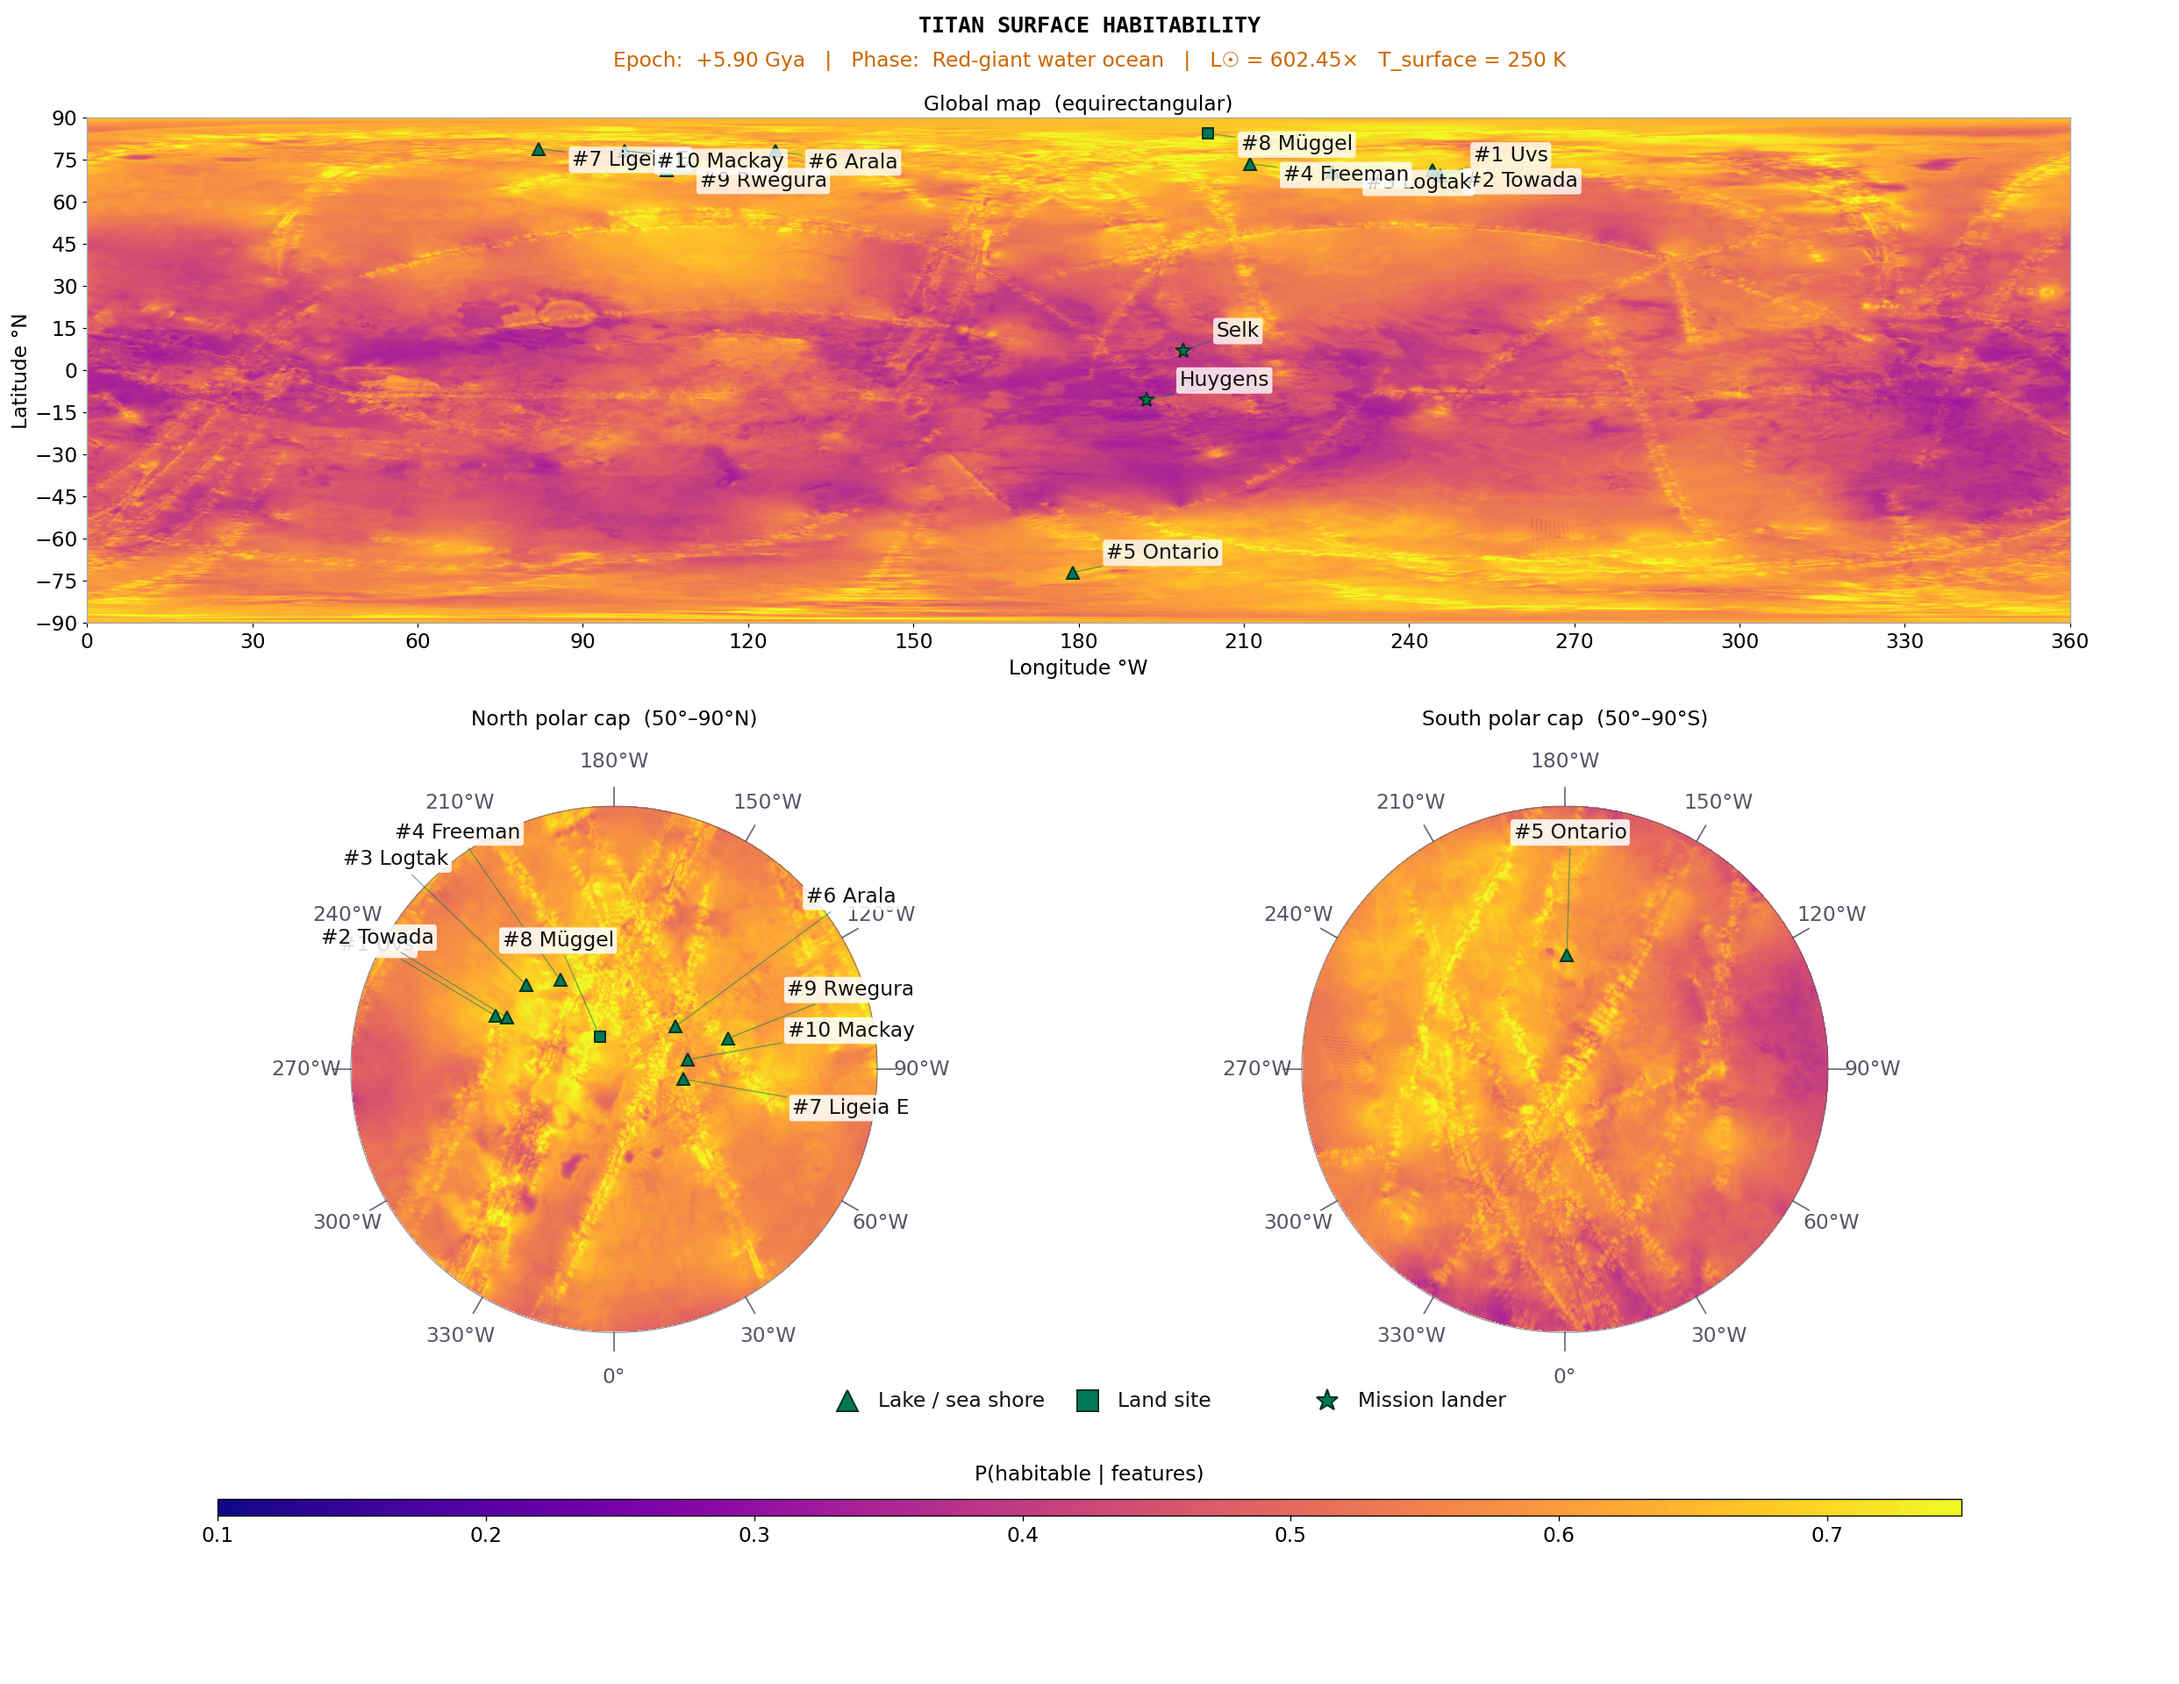
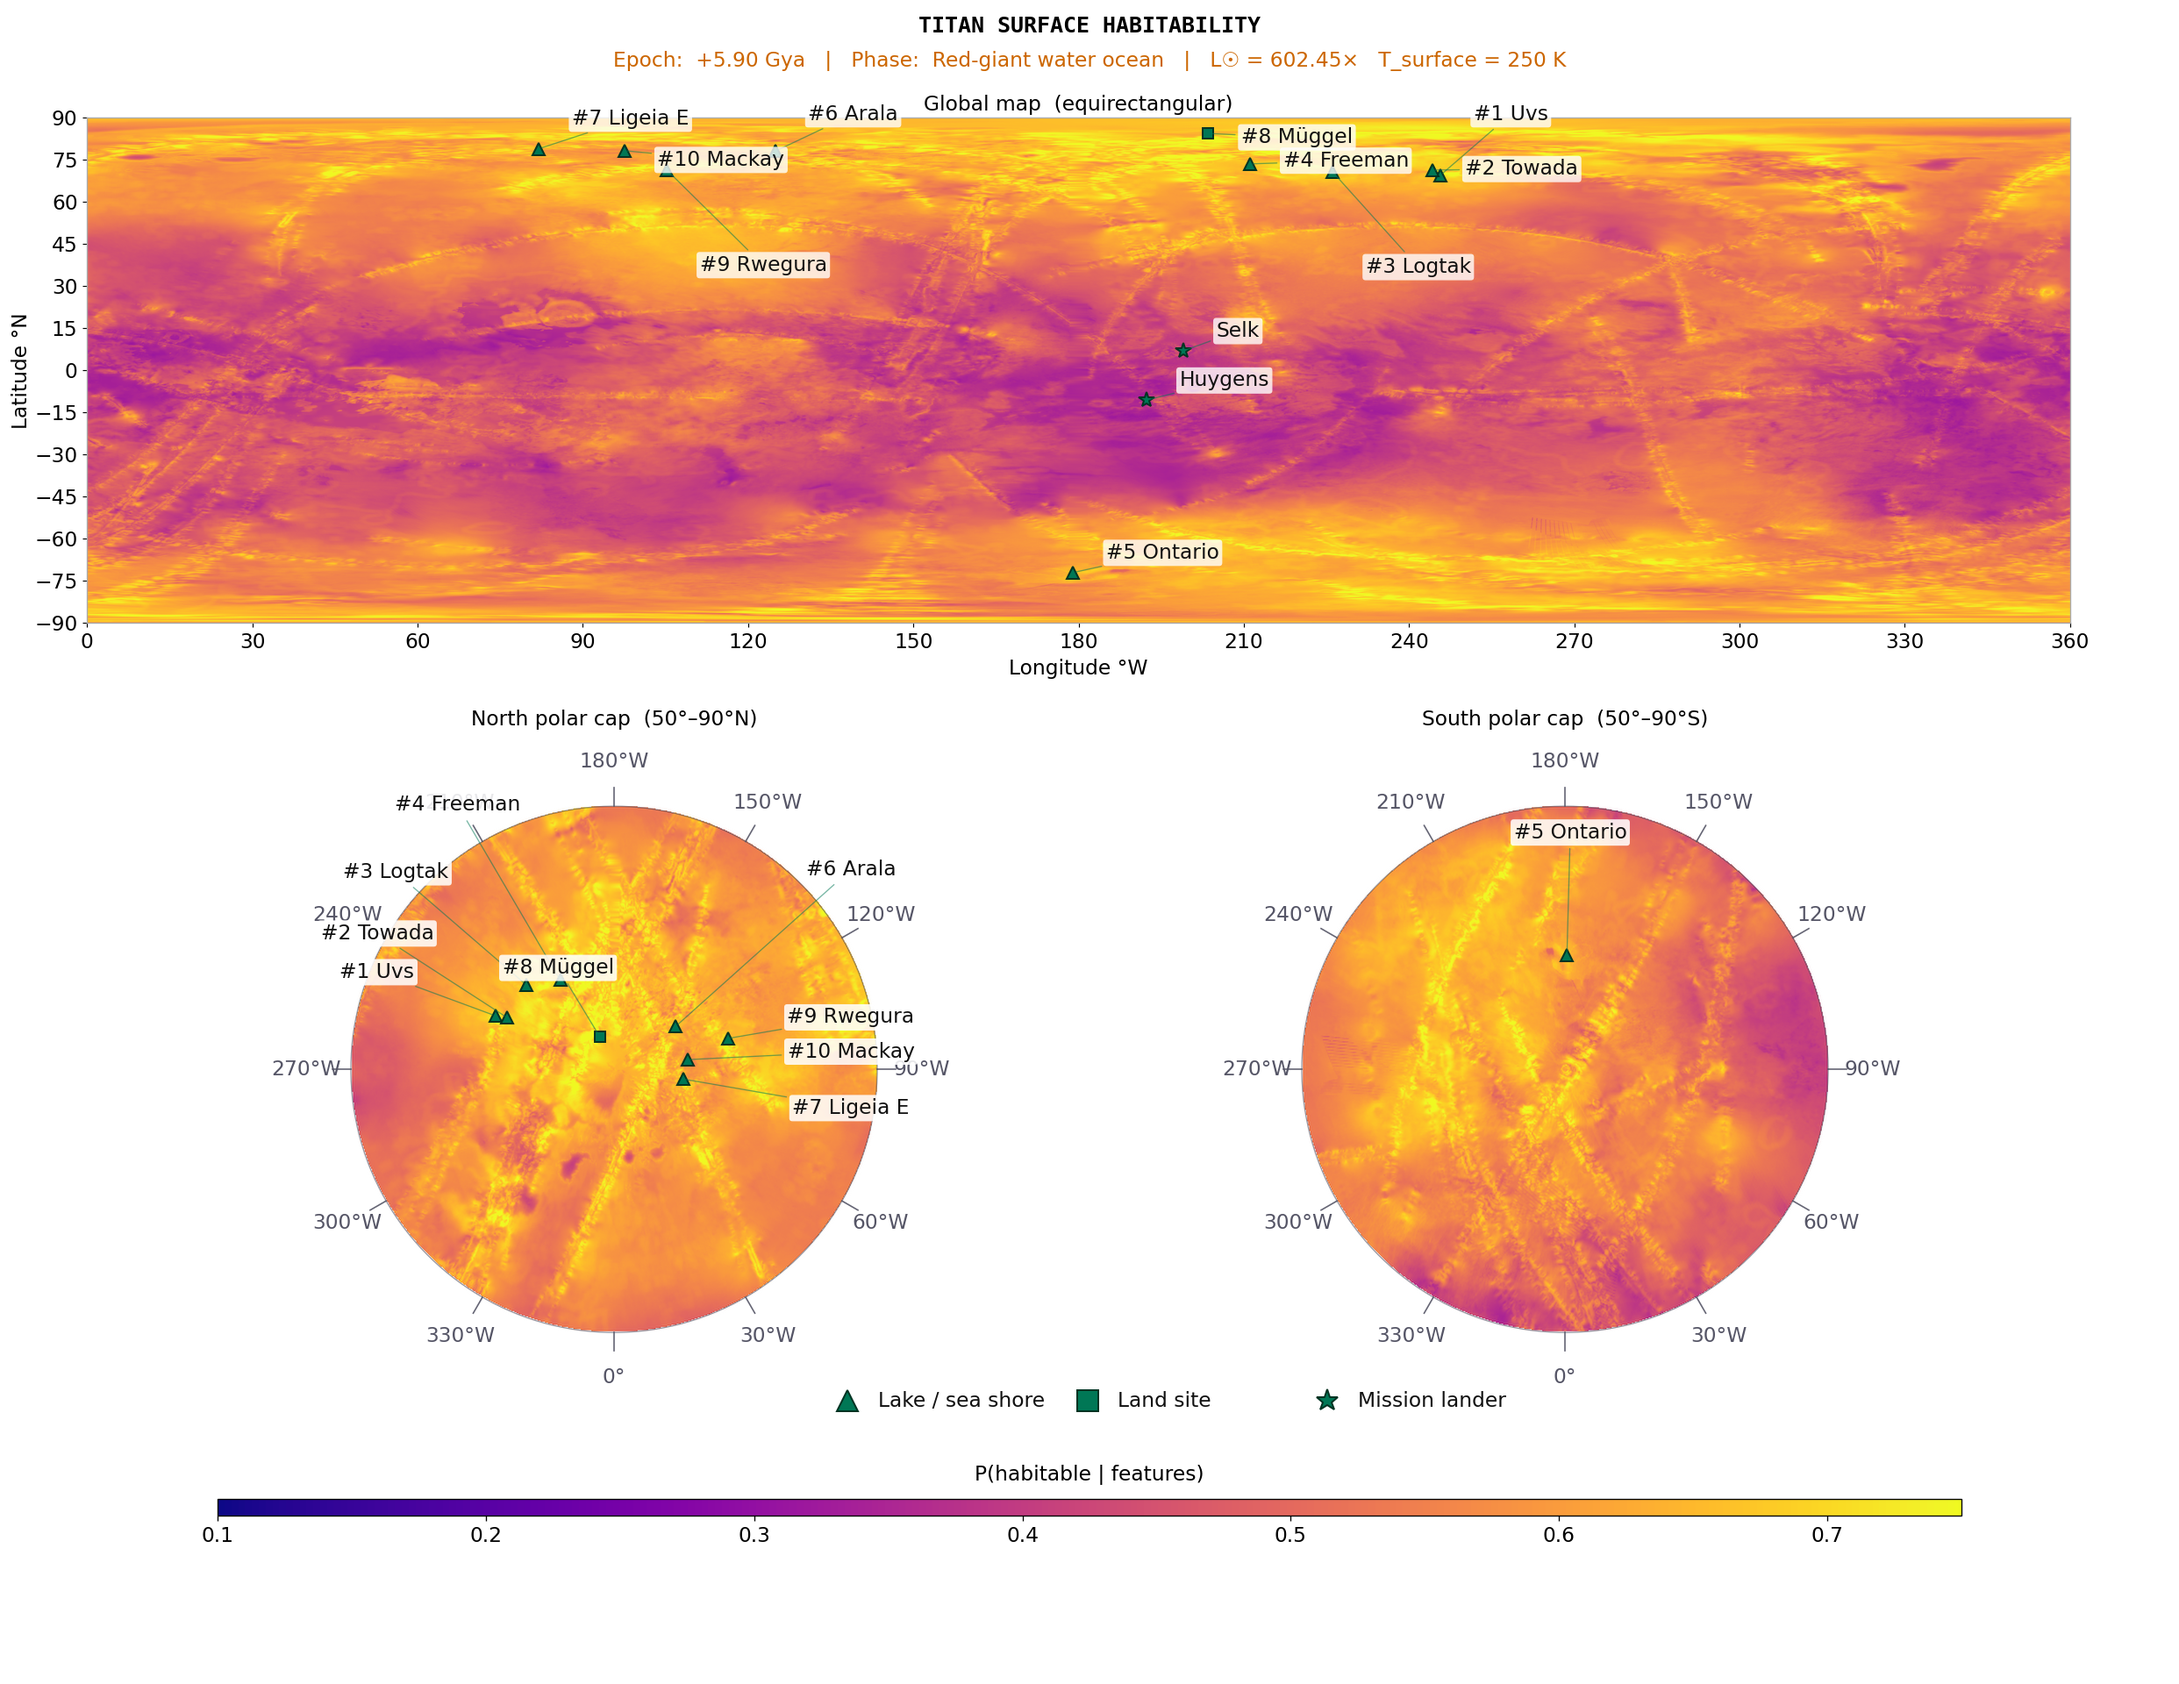
Moved map labels so they don't clash. (#24)

diff --git a/generate_temporal_maps.py b/generate_temporal_maps.py
@@ -2311,6 +2311,81 @@ def render_frame(
 
 # --- Thesis frame -------------------------------------------------------------
 
+def _deoverlap_labels(fig, ax, anns, pad_px: float = 1.5,
+                      max_iter: int = 200, max_shift_px: float = 42.0) -> None:
+    """Vertically separate overlapping site labels on a single map axis.
+
+    Each annotation keeps its anchor point (``xy``, the marker) fixed; only the
+    text position (``xytext``) is moved, so the existing leader lines follow the
+    label automatically.  Overlap is measured from the rendered text boxes in
+    display (pixel) space, which makes the routine work identically for the
+    equirectangular panel and the polar discs (whichever ``ax`` is passed).
+
+    Label travel is strictly bounded: a label never moves more than
+    ``max_shift_px`` from where it was first placed, and is always clamped to
+    the interior of ``ax``.  A crowded cluster therefore ends up with at most a
+    small residual overlap rather than a label cascading off the panel on a
+    long leader line.
+
+    Best-effort: if a renderer is unavailable, or anything else goes wrong, the
+    labels are left exactly as placed rather than raising, so figure generation
+    never fails on account of label tidying.
+    """
+    if len(anns) < 2:
+        return
+    try:
+        fig.canvas.draw()                       # realise layout + font metrics
+        renderer = fig.canvas.get_renderer()
+        trans = ax.transData
+        inv = trans.inverted()
+
+        # Axis interior (display px) and each label's starting y (travel budget)
+        ax_bb = ax.get_window_extent(renderer)
+        y_lo, y_hi = ax_bb.y0 + 2.0, ax_bb.y1 - 2.0
+        y_start = [float(trans.transform(a.xyann)[1]) for a in anns]
+
+        def _box(a):
+            return a.get_window_extent(renderer).padded(pad_px)
+
+        def _disp_y(a):
+            return float(trans.transform(a.xyann)[1])
+
+        def _set_y(a, y_target, k):
+            # An Annotation's text position lives in ``xyann`` (textcoords are
+            # 'data' here); set_position() would be overwritten at draw time.
+            # Clamp to the travel budget from the start, then to the axis.
+            y = min(max(y_target, y_start[k] - max_shift_px),
+                    y_start[k] + max_shift_px)
+            y = min(max(y, y_lo), y_hi)
+            x_disp = float(trans.transform(a.xyann)[0])
+            a.xyann = tuple(inv.transform((x_disp, y)))
+
+        for _ in range(max_iter):
+            boxes = [_box(a) for a in anns]
+            moved = False
+            for i in range(len(anns)):
+                for j in range(i + 1, len(anns)):
+                    bi, bj = boxes[i], boxes[j]
+                    if not bi.overlaps(bj):
+                        continue
+                    overlap = min(bi.y1, bj.y1) - max(bi.y0, bj.y0)
+                    if overlap <= 0:
+                        continue
+                    shift = overlap / 2.0 + 0.5
+                    ci = 0.5 * (bi.y0 + bi.y1)
+                    cj = 0.5 * (bj.y0 + bj.y1)
+                    up, down = (i, j) if ci >= cj else (j, i)
+                    _set_y(anns[up],   _disp_y(anns[up])   + shift, up)
+                    _set_y(anns[down], _disp_y(anns[down]) - shift, down)
+                    boxes[i] = _box(anns[i])
+                    boxes[j] = _box(anns[j])
+                    moved = True
+            if not moved:
+                break
+    except Exception:                           # best-effort; never break render
+        pass
+
+
 def render_thesis_frame(
     posterior:  "np.ndarray",
     t:          float,
@@ -2455,6 +2530,7 @@ def render_thesis_frame(
                   fontsize=FSIZE_THESIS_MAP_TITLE, pad=5)
 
     # Top-10 markers on equirectangular
+    eq_anns: List = []
     for lon_W, lat, label, rank, _ in TOP10:
         _stype  = SITE_TYPE.get(label, "land")
         _mshape = MARKER_SHAPE[_stype]
@@ -2462,7 +2538,7 @@ def render_thesis_frame(
         ax1.plot(lon_W, lat, _mshape, color=COLOUR_MARKER,
                  ms=_msize, mew=1.2, markeredgecolor=COLOUR_MARKER_EDGE, zorder=10)
         dx, dy = _label_offset(lon_W, lat)
-        ax1.annotate(
+        eq_anns.append(ax1.annotate(
             f"#{rank} {label}",
             xy=(lon_W, lat), xytext=(lon_W + dx, lat + dy),
             color=COLOUR_TEXT, fontsize=TH_TEXT,
@@ -2470,21 +2546,26 @@ def render_thesis_frame(
             zorder=11,
             bbox=dict(boxstyle="round,pad=0.15",
                       fc=COLOUR_ANNOT_BOX, ec="none"),
-        )
+        ))
     for lon_W, lat, label, rank, _ in ALWAYS_EXTRA:
         _stype  = SITE_TYPE.get(label, "lander")
         ax1.plot(lon_W, lat, MARKER_SHAPE[_stype], color=COLOUR_MARKER,
                  ms=MARKER_SIZE_BY_TYPE[_stype], mew=1.2,
                  markeredgecolor=COLOUR_MARKER_EDGE, zorder=10)
         dx, dy = _label_offset(lon_W, lat)
-        ax1.annotate(
+        eq_anns.append(ax1.annotate(
             label,
             xy=(lon_W, lat), xytext=(lon_W + dx, lat + dy),
             color=COLOUR_TEXT, fontsize=TH_TEXT,
             arrowprops=dict(arrowstyle="-", color=COLOUR_LEADER, lw=0.8),
             zorder=11,
             bbox=dict(boxstyle="round,pad=0.15", fc=COLOUR_ANNOT_BOX, ec="none"),
-        )
+        ))
+
+    # Push apart any labels that collide (clustered polar lakes especially);
+    # markers stay put and the leader lines follow the moved text.  The wide
+    # equirectangular panel has room, so allow a generous travel budget.
+    _deoverlap_labels(fig, ax1, eq_anns, max_shift_px=80.0)
 
     # -- Polar-cap helper -----------------------------------------------------
     def _draw_polar_panel(ax: "matplotlib.axes.Axes", north: bool,
@@ -2504,6 +2585,7 @@ def render_thesis_frame(
                      fontsize=FSIZE_THESIS_MAP_TITLE, pad=5)
         _draw_polar_graticule(ax)
 
+        pol_anns: List = []
         for lon_W, lat, label, rank, _ in TOP10:
             xs, ys = _loc_to_stereo(lon_W, lat, north=north)
             if xs is None:
@@ -2516,7 +2598,7 @@ def render_thesis_frame(
             scale_out = min(1.15 / max(0.05, mag), 4.0)
             tx = max(-0.90, min(0.90, xs * scale_out))
             ty = max(-0.90, min(0.90, ys * scale_out))
-            ax.annotate(
+            pol_anns.append(ax.annotate(
                 (f"#{rank} {label}" if rank > 0 else label),
                 xy=(xs, ys), xytext=(tx, ty),
                 color=COLOUR_TEXT, fontsize=TH_TEXT_POL,
@@ -2525,7 +2607,7 @@ def render_thesis_frame(
                 zorder=11,
                 bbox=dict(boxstyle="round,pad=0.15",
                           fc=COLOUR_ANNOT_BOX_POLAR, ec="none"),
-            )
+            ))
         for lon_W, lat, label, rank, _ in ALWAYS_EXTRA:
             xs, ys = _loc_to_stereo(lon_W, lat, north=north)
             if xs is None:
@@ -2538,7 +2620,7 @@ def render_thesis_frame(
             scale_out = min(1.15 / max(0.05, mag), 4.0)
             tx = max(-0.90, min(0.90, xs * scale_out))
             ty = max(-0.90, min(0.90, ys * scale_out))
-            ax.annotate(
+            pol_anns.append(ax.annotate(
                 label,
                 xy=(xs, ys), xytext=(tx, ty),
                 color=COLOUR_TEXT, fontsize=TH_TEXT_POL,
@@ -2547,7 +2629,12 @@ def render_thesis_frame(
                 zorder=11,
                 bbox=dict(boxstyle="round,pad=0.15",
                           fc=COLOUR_ANNOT_BOX_POLAR, ec="none"),
-            )
+            ))
+
+        # Separate overlapping labels within this polar disc.  The disc is
+        # small, so keep the travel budget tight: labels only nudge slightly
+        # away from their radial positions rather than wandering across it.
+        _deoverlap_labels(fig, ax, pol_anns, max_shift_px=26.0)
 
     # Polar panels: explicit placement so both are identical in size and
     # the three inter-panel gaps (left / centre / right) are exactly equal.
